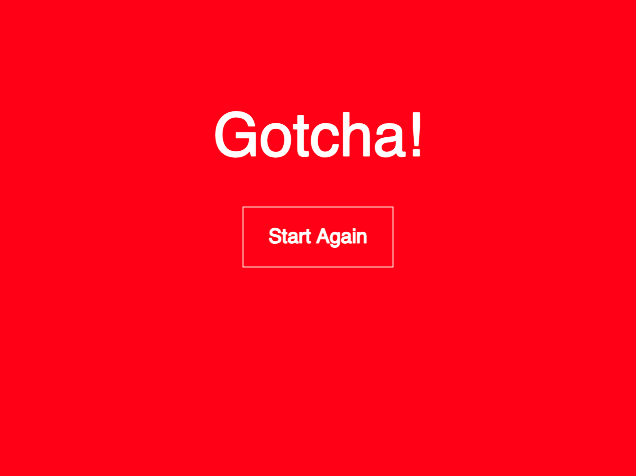
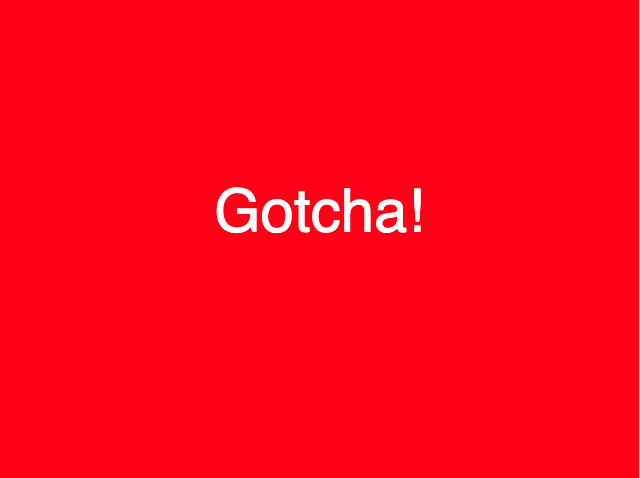
updates

Changed region(s): [[0.3286, 0.3824, 0.6572, 0.5882], [0.3286, 0.2353, 0.6871, 0.3529], [0.9858, 0.0, 1.0, 1.0]]

diff --git a/Week_13/README.md b/Week_13/README.md
@@ -148,7 +148,7 @@ The functions are chained together and work like this...
 Now we will draw the detections onto the video image... Like this (Cheers)...
 
 <p align="center">
-<img src="./images/cocossd-2.png" alt="me" width="100%"/>
+<img src="./images/mlgame-detections.jpg" alt="me" width="100%"/>
 </p>
 
 
@@ -167,7 +167,7 @@ function draw() {
     noStroke();
     fill(255);
     textSize(24);
-    text(object.label, object.x + 10, object.y + 24);
+    text(object.label +" "+ object.confidence, object.x + 10, object.y + 24);
   }
 }
 ```
@@ -179,6 +179,7 @@ Run your sketch **using a local server**, you should see the bounding box and la
 
 ```diff
 ! Change the colour of the bounding box.
+! Round the confidence value to two decimal places (so it looks like my photo above).
 ```
 
 <details>
@@ -191,13 +192,16 @@ You can find the answers to the code challenges including the final sketch.js co
 We will now use all the sketch to make a simple game. 
 
 #### How to play
-A single player starts in the field of vision of the camera hiding behind something (a chair or table). They have to get close enough to the camera without being detected as a person to show the camera their phone. 
-If they are detected as a person a 'Gotcha!' screen will appear.  
-To succeed players will have to disguise themselves, move fast, crawl or hide behind objects... 
+A single player starts in the field of vision of the camera disguised or camouflaged and a few metres away. They have to show their phone to the camera before they are detected as a person.  
 
-#### How the game will works:   
-If a 'person' is detected then they have been caught and the 'Gotcha' screen displays. 
-If a 'cell phone' is detected they have won and tricked the system to not recognise them as they approached the camera. The 'Success' screen displays.   
+If they are detected as a person a 'Gotcha!' screen will appear.  
+To succeed players will have to disguise themselves or move fast, or even hide behind objects... 
+
+#### How the game works:   
+If a 'person' is detected then they have been caught and the 'Gotcha!' screen displays. 
+If a 'cell phone' is detected they have won and tricked the system to not recognise them as they approached the camera. The 'You Win!' screen displays.   
+
+The game can be retarted by refreshing the browser page.   
 
 <p align="center">
 <img src="./images/mlgame-flow.png" alt="me" width="100%"/>
@@ -205,6 +209,13 @@ If a 'cell phone' is detected they have won and tricked the system to not recogn
 
 
  
+#### Lets get started: 
+We are going to need to make 3 screens:  
+- The detection screen (we've mostly made this already)  
+- The Gotcha screen  
+- The You Win screen  
+
+Then we will switch between them using the ```switch (state)``` function (from week 4).  
 
 To begin with we will move all the code from ```draw()``` into a function called ```videoUI()```
 And run ```videoUI()``` from draw.  
@@ -227,136 +238,12 @@ function videoUI() {
     noStroke();
     fill(255);
     textSize(24);
-    text(object.label, object.x + 10, object.y + 24);
+    text(object.label +" "+ object.confidence, object.x + 10, object.y + 24);
   }
 }
 ```
-
-Now you need to make 3 screens that you will switch between: A 'Start' Screen, a 'Gotcha!' screen, a 'Success' screen.  
-
-<p align="left">
-<img src="./images/mlgame-start.png" alt="me" width="32%"/><img src="./images/mlgame-gotcha.png" alt="me" width="32%"/><img src="./images/mlgame-success.png" alt="game" width="32%"/>
-</p>
-
-
-
-The 3 screens will be generated from one new function ```textUI()```, passing different parameters to it to style each screen. 
-
-Create some new global variables* for the width and height of the 'Start Again' button.  
-```javascript
-let rectWidth = 150;
-let rectHeight = 60;
-```
-
-*Where should these two global variables be declared? 
-
-
-Add the ```textUI()``` function at the bottom of ```sketch.js```.  
-
-
-```javascript
-function textUI(r,g,b, btnText) {
-  background(r,g,b);
-  let rectX = (width - rectWidth) / 2;
-  let rectY = (height - rectHeight) / 2;
-
-  // Draw the centered button rectangle
-  strokeWeight(1);
-  stroke(255);
-  fill(r,g,b);
-  rect(rectX, rectY, rectWidth, rectHeight);
-
-  // Set up text properties
-  textAlign(CENTER, CENTER);
-  textSize(20);
-  fill(255); // White text
-
-  // Calculate the position for the centered text
-  let textX = width / 2;
-  let textY = height / 2;
-
-  // Draw centered button text
-  text(btnText, textX, textY);
-  // Draw alert text
-  textSize(60);
-  text("my message", textX, textY-100);
-}
-```
-
-Style the background colour and button text by passing parameters to ```textUI()```.  
-E.G. ```textUI(0,255,0, "Start Again");``` will produce a green background screen and text in the button that says "Start Again".  
-
-Test and run ```textUI()``` from  ```draw()``` by commenting out each ```textUI()``` line in turn.
-
-```javascript
-function draw() {
-  //videoUI();
-
-  //textUI(200,200,200, "Start"); //uncomment this line to test
-
-  textUI(0,255,0, "Start Again");
-  
-  //textUI(255,0,0, "Start Again"); //uncomment this line to test
-}
-```
-
-You should see the screen colour change and text in the rectangular button.  
-
-## &#x1F536; Code Challenge 2:
-
-```diff
-! Now change the text in each of the screens to 'Start Here', 'Gotcha' and 'Success'.
-! Tip: You will need to pass the text (string) to the textUI() function as a parameter...
-```
-
-<details>
-<summary>Hint:</summary>
-You can find the answers to the code challenges including the whole sketch.js code above at the top of the page.
-</details>  
-
-Now let's use the object detections to switch between the screens so that when a person is detected the 'Gotcha' screen displays and when a cell phone is detected a the 'Success' screen is displayed.
-
-We will add a switch statement to ```draw()``` to switch between our Start, Video, Gotcha and Success screens.  
-
-Then we will switch between the these states depending on the result from the object detection.  
-
-
-#### Set up the switch statement
-
-Add a global variable
-```javascript
-let state = "video";
-```
-
-Add the switch statement to ```draw()``` 
-```javascript
-function draw() {
-  
-  switch (state) {
-    case "video":
-      videoUI();
-      break;
-    
-    case "start":
-      textUI("Start Here", 200,200,200, "Start");
-      break;
-    
-    case "caught":
-      textUI("Gotcha!", 255,0,0, "Start Again");
-      break;
-
-    case "success":
-      textUI("Success!", 0,255,0, "Start Again");
-      break;
-    
-  }
-}
-```
-
-
-#### Use the switch statement
-
-Now we need to use the detections that the Machine Learning system produces to trigger the switch statement.  
+#### Testing for a "person" or "cell phone": 
+Next we need to see whether the detection results contain a label that is a 'person' or 'cell phone'.  
 
 Detections are already being logged here:
 ```javascript
@@ -377,8 +264,11 @@ These results are logged as an array, as below, each result has a label and conf
 </p>
 
 
+
 We can loop through the results and test whether the results contain a label that is a 'person' or 'cell phone'.  
 In addition we can test if the result has a high confidence value.  
+For now we will output the result to the console.  
+
 Amend the ```gotDetections()``` function as follows:  
 
 ```javascript
@@ -387,30 +277,153 @@ function gotDetections(error, results) {
     console.error(error);
   }
   detections = results;
-  console.log(detections);
-
-  // new : loop through the array of detections
+ 
+  // Loop through the detections array [] and test the results for "person" and "cell phone"
   for (let i = 0; i < detections.length; i++) {
-    // if label is 0.9 person
-    if(detections[i]["label"] == "person" && detections[i]["confidence"] > 0.9) {
-      // you were caught - change the 'state' variable to caught
-      state = "caught";
+    //console.log(detections[i]["label"]);
+    // label is 0.8 person or greater
+    if(detections[i]["label"] == "person" && detections[i]["confidence"] > 0.8) {
+      // you were caught
+      console.log("caught");
     }
-    // if label is 0.8 cell phone
-    else if(detections[i]["label"] == "cell phone" && detections[i]["confidence"] > 0.8) {
-      // you won - change the 'state' variable to success
-      state = "success";
+    else if(detections[i]["label"] == "cell phone" && detections[i]["confidence"] > 0.3) {
+      // you won 
+      console.log("success");
     }
-    
   }
   detector.detect(video, gotDetections);
 }
 ```
-Test your project. A basic version of the game should now work (you'll need to refresh the page to reset).  
+Try changing the confidence value to 0.99 to see if you can be detected as a person and "caught" so easily.  
+
+
+#### Gotcha and You Win screens
+Now we will make 2 screens that you will switch between: A 'Gotcha!' screen, a 'You Win' screen.  
+
+<p align="left">
+<img src="./images/mlgame-gotcha.png" alt="me" width="32%"/><img src="./images/mlgame-success.png" alt="game" width="32%"/>
+</p>
+
+We will write a function to create each screen. (Then switch between them).  
+
+Write the following functions beneath your ```videoUI``` function.   
+The Gotcha function:
+```
+// Gotcha 
+function gotcha(){
+  background(255,0,0);
+  // Set up text properties
+  textAlign(CENTER, CENTER);
+  textSize(60);
+  fill(255); // White text
+  text("Gotcha!", width/2, height/2);
+}
+```
+The You Win function
+```
+// you win
+function youWin(){
+  background(0,255,0);
+  // Set up text properties
+  textAlign(CENTER, CENTER);
+  textSize(60);
+  fill(255); // White text
+  text("You Win!", width/2, height/2);
+}
+```
+
+
+Test and run ```gotcha()``` and ```youWin()``` from inside  ```draw()``` by commenting / uncommenting each in turn.
+
+```javascript
+function draw() {
+  //videoUI(); //uncomment this line to test
+
+  //youWin(); //uncomment this line to test
+  
+  //gotcha(); //uncomment this line to test
+}
+```
+
+Uncomment each one to see it in turn.    
+
+#### Set up the switch statement
+Now let's use the object detections to switch between the screens so that when a person is detected the 'Gotcha' screen displays and when a cell phone is detected a the 'Success' screen is displayed.
+
+We will add a switch statement to ```draw()``` to switch between our Start, Video, Gotcha and Success screens.  
+
+Then we will switch between the these states depending on the result from the object detection.  
+
+
+Add a global variable
+```javascript
+let state = "video";
+```
+
+Add the switch statement to ```draw()``` 
+```javascript
+function draw() { 
+  switch (state) {
+    case "video":
+      videoUI();
+      break;
+    
+    case "caught":
+      gotcha();
+      break;
+
+    case "success":
+      youWin();
+      break; 
+  } 
+}
+```
+
+
+#### Use the switch statement
+Now we need to set the ```state``` variable to ```"caught"``` or ```"success"``` depending on the result of the detections in the ```gotDetections()``` function.  
+
+Add ```state = "caught";``` and ```state = "success";``` to ```gotDetections()```   
+
+<details>
+<summary>Solution:</summary>
+
+```javascript
+function gotDetections(error, results) {
+  if (error) {
+    console.error(error);
+  }
+  detections = results;
+ 
+  // Loop through the detections array [] and test the results for "person" and "cell phone"
+  for (let i = 0; i < detections.length; i++) {
+    //console.log(detections[i]["label"]);
+    // label is 0.9 person
+    if(detections[i]["label"] == "person" && detections[i]["confidence"] > 0.6) {
+      // you were caught
+      console.log("caught");
+      state = "caught"; // change the 'state' variable to caught
+    }
+    else if(detections[i]["label"] == "cell phone" && detections[i]["confidence"] > 0.3) {
+      // you won 
+      console.log("success");
+      state = "success"; //change the 'state' variable to success
+    }
+  }
+  detector.detect(video, gotDetections);
+}
+```
+</details> 
+
+
+Test your project. The game should now work (you'll need to refresh the page to reset).  
+
+
+
 
 The last thing to do is register a mousePressed click on the 'Start Again' button to do the reset and set the ```state = "video";``` to reset the video feed.
 
-## &#x1F536; Code Challenge 3:
+## &#x1F536; Code Challenge 2:
 
 ```diff
 ! Create a new mousePressed() function.  

diff --git a/Week_13/code-challenge-1-answer.md b/Week_13/code-challenge-1-answer.md
@@ -31,7 +31,7 @@ function draw() {
     noStroke();
     fill(255);
     textSize(24);
-    text(object.label, object.x + 10, object.y + 24);
+    text(object.label +" "+ round(object.confidence, 2), object.x + 10, object.y + 24);
   }
 }
 
